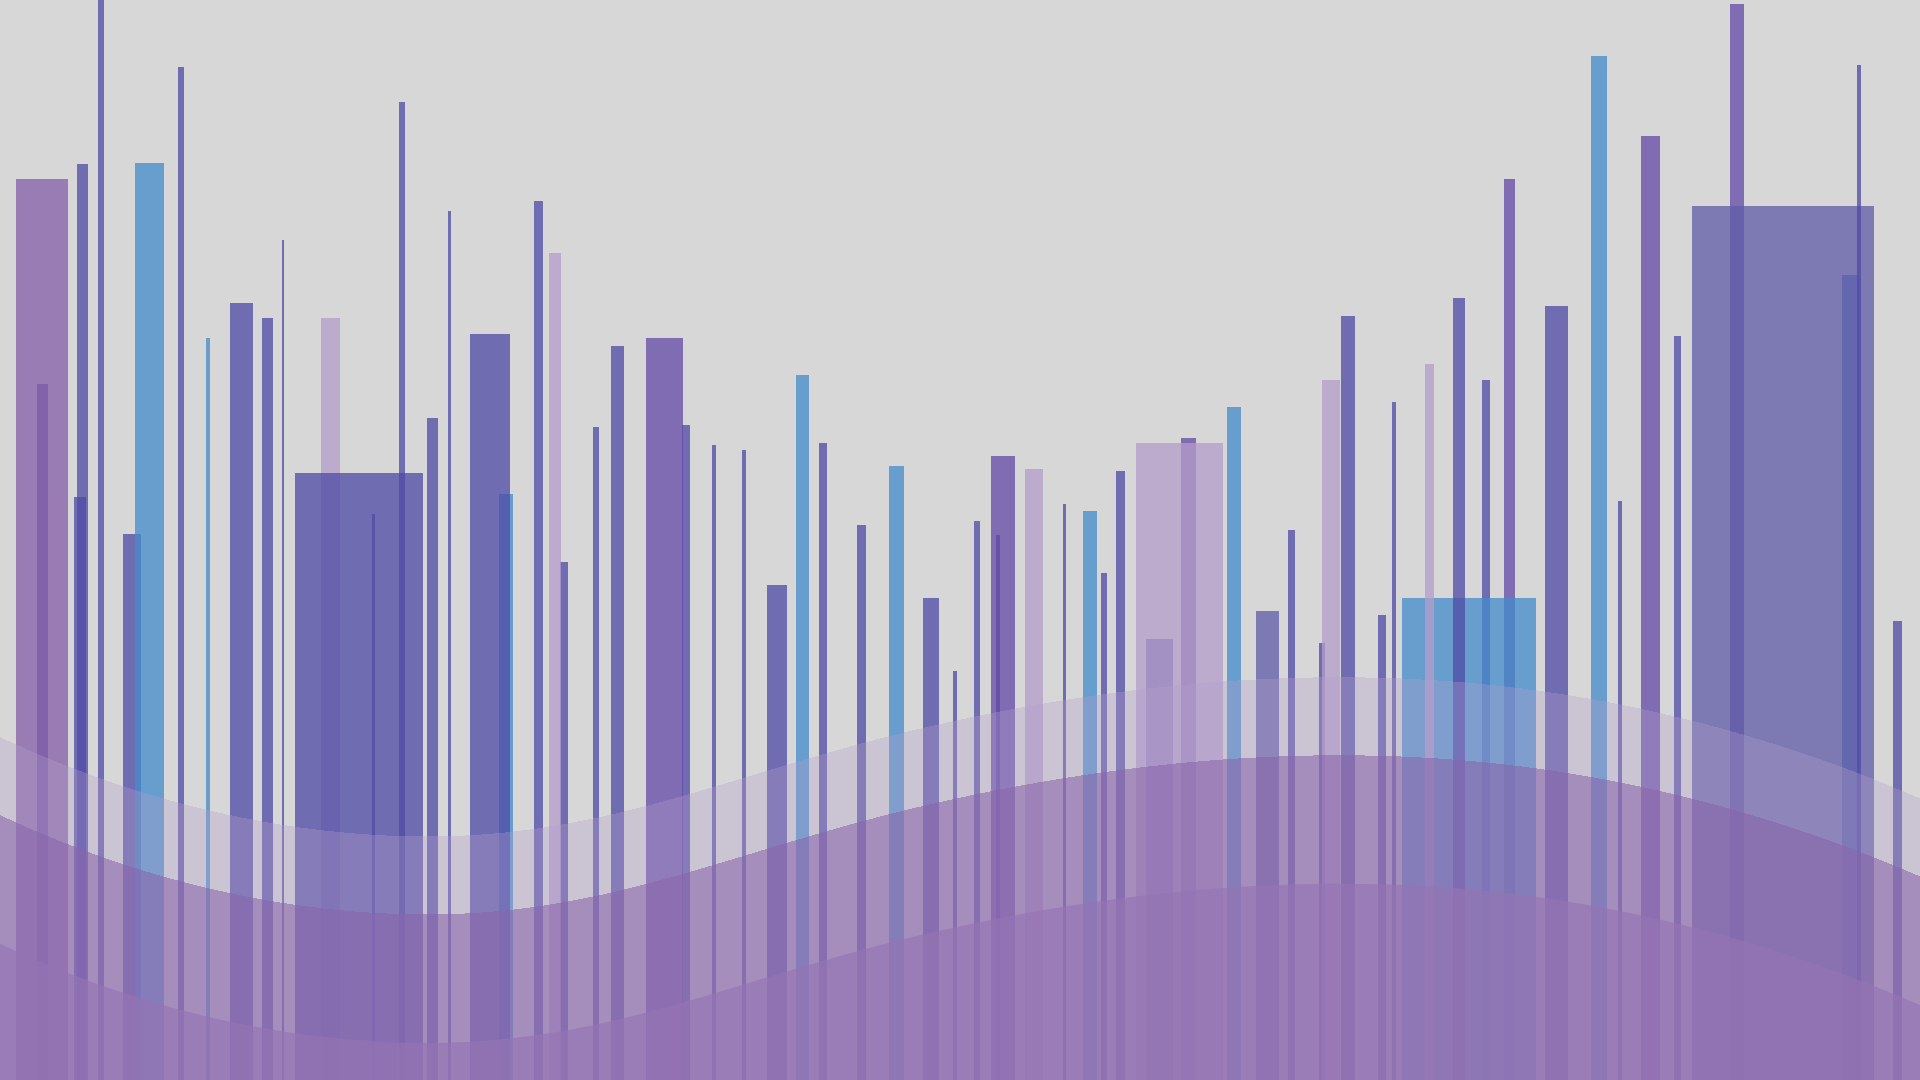
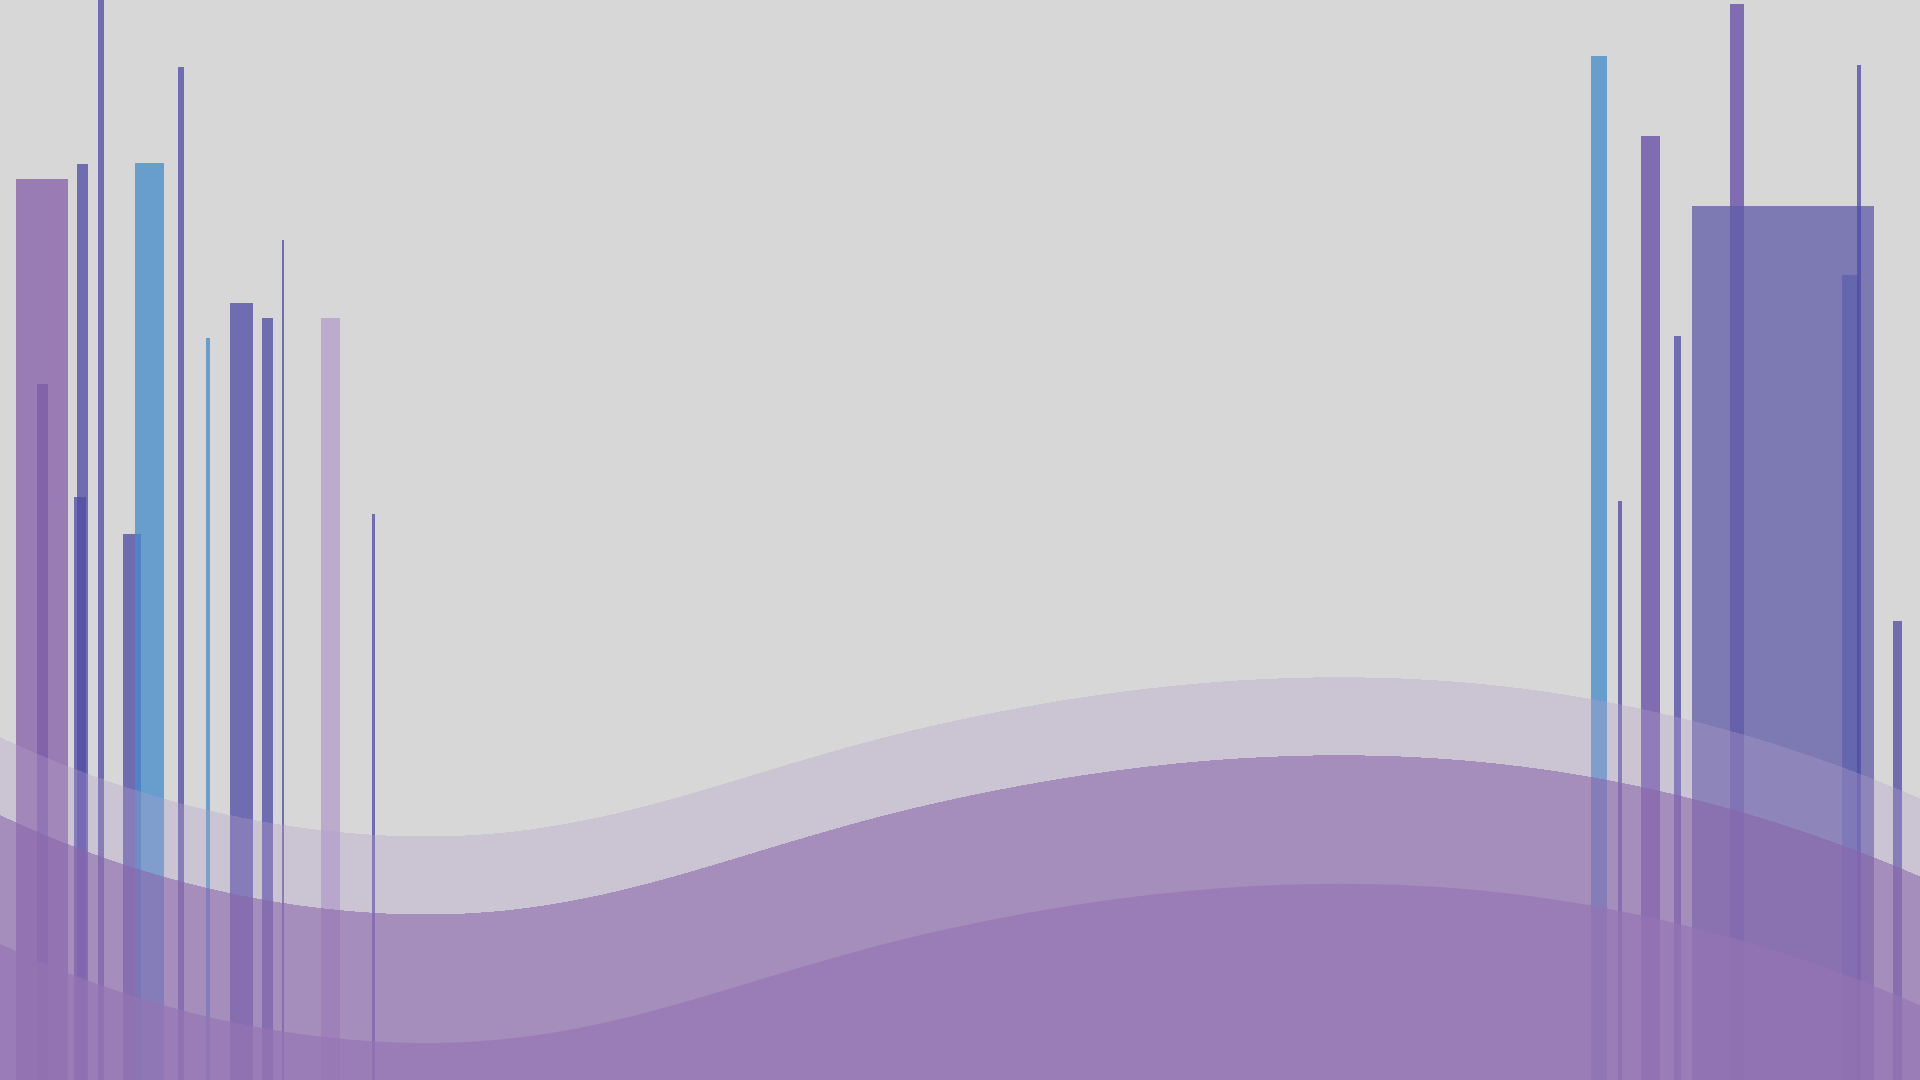
updated background image
added more rows to dashboard
updated background to be less busy looking

Changed region(s): [[0.1562, 0.1528, 0.8438, 0.9778]]

diff --git a/wrent_frontend/src/components/home/index.js b/wrent_frontend/src/components/home/index.js
@@ -96,6 +96,40 @@ export default function Home() {
           <Item />
         </Grid>
       </Grid>
+      <Grid container spacing={2} direction="row" alignItems="center" justify="center">
+        <Grid item xs={2}>
+          <Item />
+        </Grid>
+        <Grid item xs={2}>
+          <Item />
+        </Grid>
+        <Grid item xs={2}>
+          <Item />
+        </Grid>
+        <Grid item xs={2}>
+          <Item />
+        </Grid>
+        <Grid item xs={2}>
+          <Item />
+        </Grid>
+      </Grid>
+      <Grid container spacing={2} direction="row" alignItems="center" justify="center">
+        <Grid item xs={2}>
+          <Item />
+        </Grid>
+        <Grid item xs={2}>
+          <Item />
+        </Grid>
+        <Grid item xs={2}>
+          <Item />
+        </Grid>
+        <Grid item xs={2}>
+          <Item />
+        </Grid>
+        <Grid item xs={2}>
+          <Item />
+        </Grid>
+      </Grid>
     </div>
   );
 }
